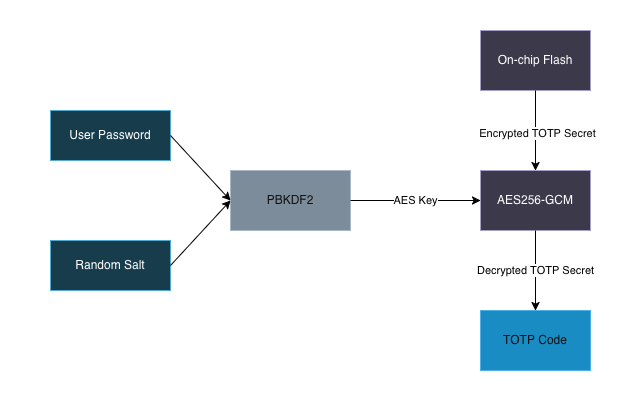
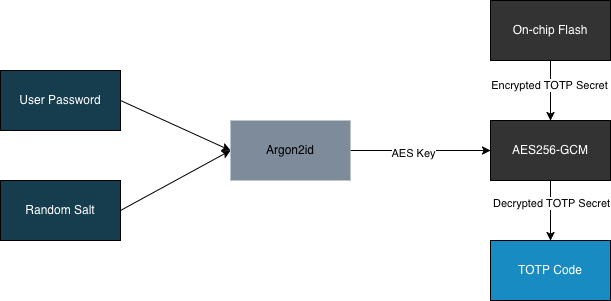
Update docs with additional commands

diff --git a/docs/stylesheets/extra.css b/docs/stylesheets/extra.css
@@ -1,3 +1,6 @@
+html {
+  font-size: 20px;
+}
 [data-md-color-scheme="slate"] {
     /* Deep Navy/Blue Backgrounds instead of Grey */
     --md-default-bg-color:               #2e3440; /* Base Background (Nord0) */

diff --git a/docs/index.md b/docs/index.md
@@ -12,19 +12,19 @@ TOTPVault should work on almost all TOTP-based authentication sites, the list be
 
 | Website       | Supported |
 |---------------|-----------|
-| Google        | Y         |
-| Digital Ocean |           |
-| Amazon        |           |
-| Microsoft     |           |
-| Instagram     |           |
-| Paypal        |           |
-| eBay          |           |
-| Cloudflare    |           |
-| Dropbox       |           |
-| Github        |           |
-| Gitlab        |           |
-| Linkedin      |           |
-| Protonmail    |           |
+| Google        |     Y     |
+| Digital Ocean |     Y     |
+| Amazon        |     Y     |
+| Microsoft     |     Y     |
+| Instagram     |     Y     |
+| Paypal        |     Y     |
+| eBay          |     Y     |
+| Cloudflare    |     Y     |
+| Dropbox       |     Y     |
+| Github        |     Y     |
+| Gitlab        |     Y     |
+| Linkedin      |     Y     |
+| Protonmail    |     Y     |
 
 
 # FAQ
@@ -45,11 +45,3 @@ No, as long as your password is strong they cannot unlock the vault and generate
 Try reinserting the device and look for a USB device with the VID 0x1A86 and PID 0x55D3. 
 
 You can run `dev-info -v` which will print verbose output as to how the device is selected. It is possible another device exists with the same VID/PID in which case use `-p` to specify the path to the exact device
-
-### "unexpected end of file" Error
-
-```
-Unable to get device status from: /dev/tty.usbmodem59090561791
-	Error = IO error while reading data: unexpected end of file
-```
-The vault is taking a while to perform operations, increase the timeout in the user application with `--timeout`

diff --git a/docs/commands.md b/docs/commands.md
@@ -180,3 +180,36 @@ totpvault-cli lock-vault
 totpvault-cli lock-vault
 Locked vault
 ```
+
+## Get Settings
+Gets all settings and their values for the device
+
+**Usage:**
+```bash
+totpvault-cli get-config
+```
+
+**Example:**
+```bash
+totpvault-cli get-config
+Device Settings:
+        auto-lock: off
+```
+
+
+## Set Autolock
+Sets the autolock feature for the vault (locks vault after 10 min)
+
+**Usage:**
+```bash
+totpvault-cli set-config --vault-autolock <on/off>
+```
+
+**Example:**
+```bash
+totpvault-cli set-config --vault-autolock off
+Successfully set setting 'autolock' to 'off'
+
+totpvault-cli set-config --vault-autolock on
+Successfully set setting 'autolock' to 'on'
+```

diff --git a/docs/updating-firmware.md b/docs/updating-firmware.md
@@ -8,17 +8,19 @@
 
 
 ## Steps
-1. Install `esptool`: `pip install esptool`
-2. Download the latest firmware version `flash.bin`
-3. Push and hold the DFU button on the device (left button) while inserting it into the computer, then release the DFU button
-4. Identify the device `esptool security-info`
+- Install `esptool`: `pip install esptool`
+
+- Download the latest firmware version `flash.bin`
+
+- Push and hold the DFU button on the device (left button) while inserting it into the computer, then release the DFU button
+
+- Identify the device `esptool security-info`
 
 ```bash
 esptool v5.3.0
 Connected to ESP32-C3 on /dev/cu.usbserial-TFGTNDFV:
 Chip type:          ESP32-C3 in Secure Download Mode
 
-Warning: Stub flasher is not supported in Secure Download Mode, it has been disabled. Set --no-stub to suppress this warning.
 Security Information:
 =====================
 Flags: 0x000004f5 (0b10011110101)
@@ -42,7 +44,7 @@ Icache in UART download mode: Disabled
 JTAG: Permanently Disabled
 ```
 
-5. Flash the new firmware with `esptool --chip esp32c3 -p <SERIAL PORT> --no-stub write-flash --no-compress --force --flash-mode dio --flash-freq 80m --flash-size 4MB 0x0 flash.bin`
+- Flash the new firmware with `esptool --chip esp32c3 -p <SERIAL PORT> --no-stub write-flash --no-compress --force --flash-mode dio --flash-freq 80m --flash-size 4MB 0x0 flash.bin`
 
 ```bash
 esptool v5.3.0
@@ -59,4 +61,4 @@ Cannot verify written data if encrypted or in secure download mode.
 Hard resetting via RTS pin...
 ```
 
-6. Unplug and reinsert the device
+- Unplug and reinsert the device

diff --git a/docs/system-design.md b/docs/system-design.md
@@ -4,7 +4,7 @@
 
 ### Secret Storage
   - TOTP secrets are encrypted at rest using AES-256-GCM, ensuring data confidentiality
-  - Encryption keys derived from vault password using PBKDF2, device has no knowledge of decryption keys without vault password
+  - Encryption keys derived from vault password using Argon2id, device has no knowledge of decryption keys without vault password
   - The keys are never stored on the device (ie. the device cannot decrypt any secrets without the user providing the vault password)
   - Encrypted TOTP secrets are stored in NVS (flash) on the same die as the microcontroller, making it difficult to sniff/extract them
   - Secrets are zeroed from memory immediately after use
@@ -22,7 +22,7 @@
 
 ### Hardware Design
   - TOTP secrets are encrypted and stored in on-chip flash memory, substantially complicating attacks to dump or snoop secrets
-  - USB interface is delegated to a separate chip (CH343P) from the main microcontroller (ESP32-C3) in order to isolate any USB-level exploits from the main uC
+  - USB interface is delegated to a separate chip (CH343P) from the main microcontroller (ESP32-C3) in order to isolate any USB-level exploits from the main processor
     <br/><br/>
     ![USB Isolation](images/usb_isolation_diagram.png)
 